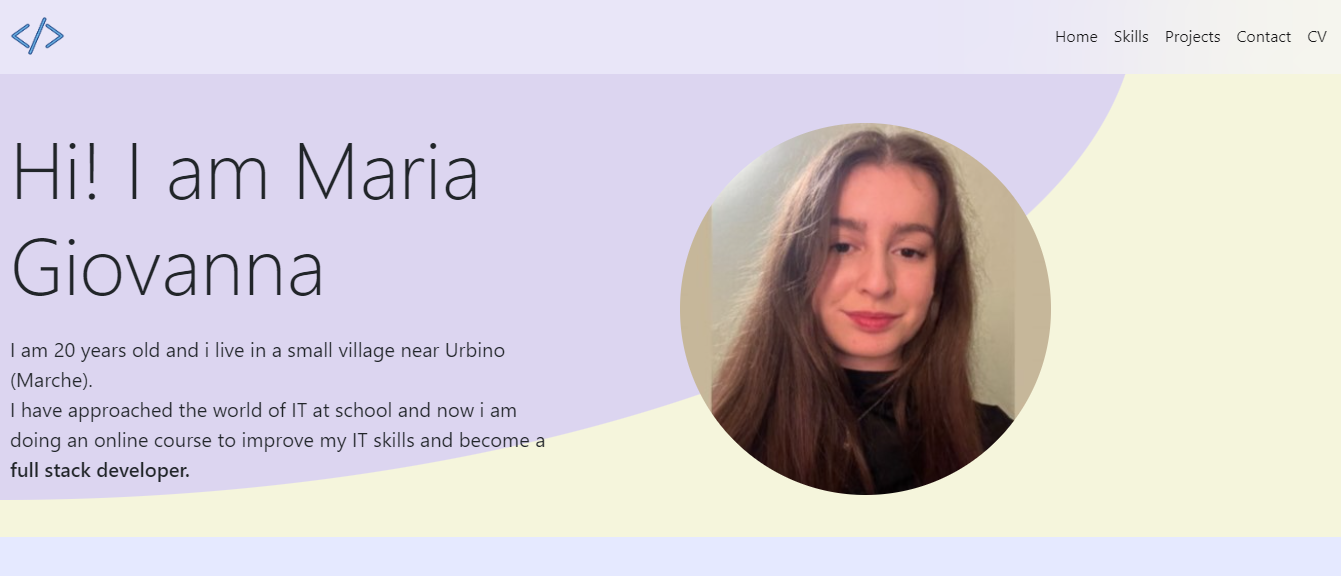
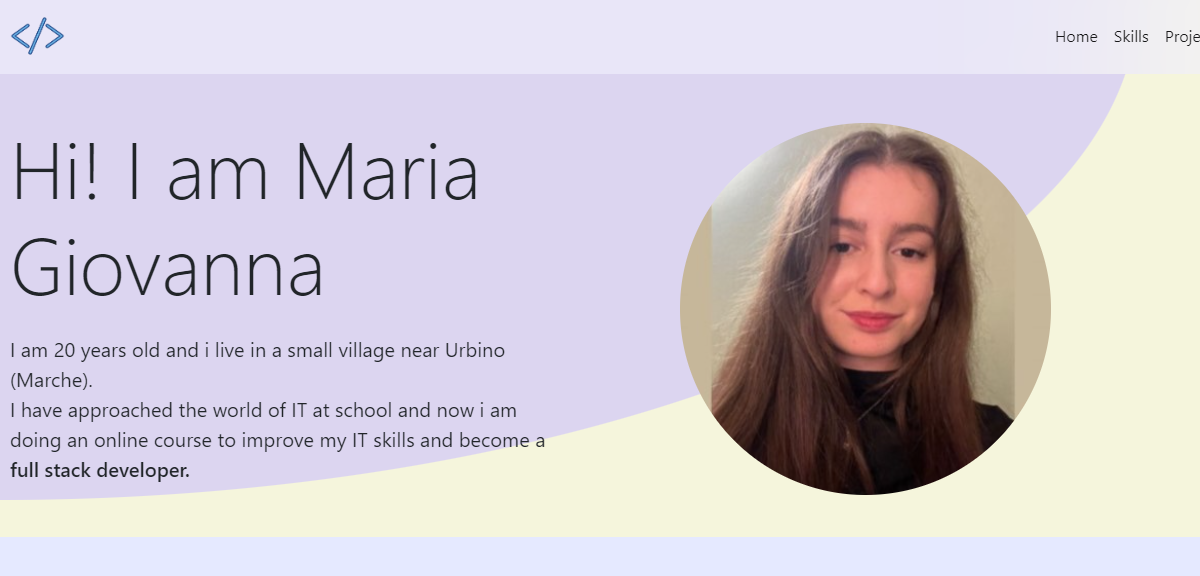
modifica ai meta tags open graph

diff --git a/index.html b/index.html
@@ -14,11 +14,17 @@
 
     <meta property="og:title" content="My Portfolio"  />
     <meta property="og:description" content="Hi! My name is Giovanna, I am doing an online course to become a full stack developer and this is my portfolio!"  >
+    <meta property="og:url" content="https://myportfolio-giovanna.netlify.app/" />
     <meta property="og:image" content="Screenshot-ogtags.png"/>
-    <meta property="og:image:width" content="1341" />
+    <meta property="og:image:width" content="1200" />
     <meta property="og:image:height" content="576" />
     <meta property="og:type" content="Website"  >
+
     <meta name="twitter:card" content="summary_large_image" >
+    <meta property="twitter:url" content="https://myportfolio-giovanna.netlify.app/" />
+    <meta property="twitter:title" content="Portfolio" />
+    <meta property="twitter:description" content="Hi! I am studying to become a full stack developer and this is my portfolio." />
+    <meta property="twitter:image" content="https://metatags.io/images/meta-tags.png" />
     
 
 
